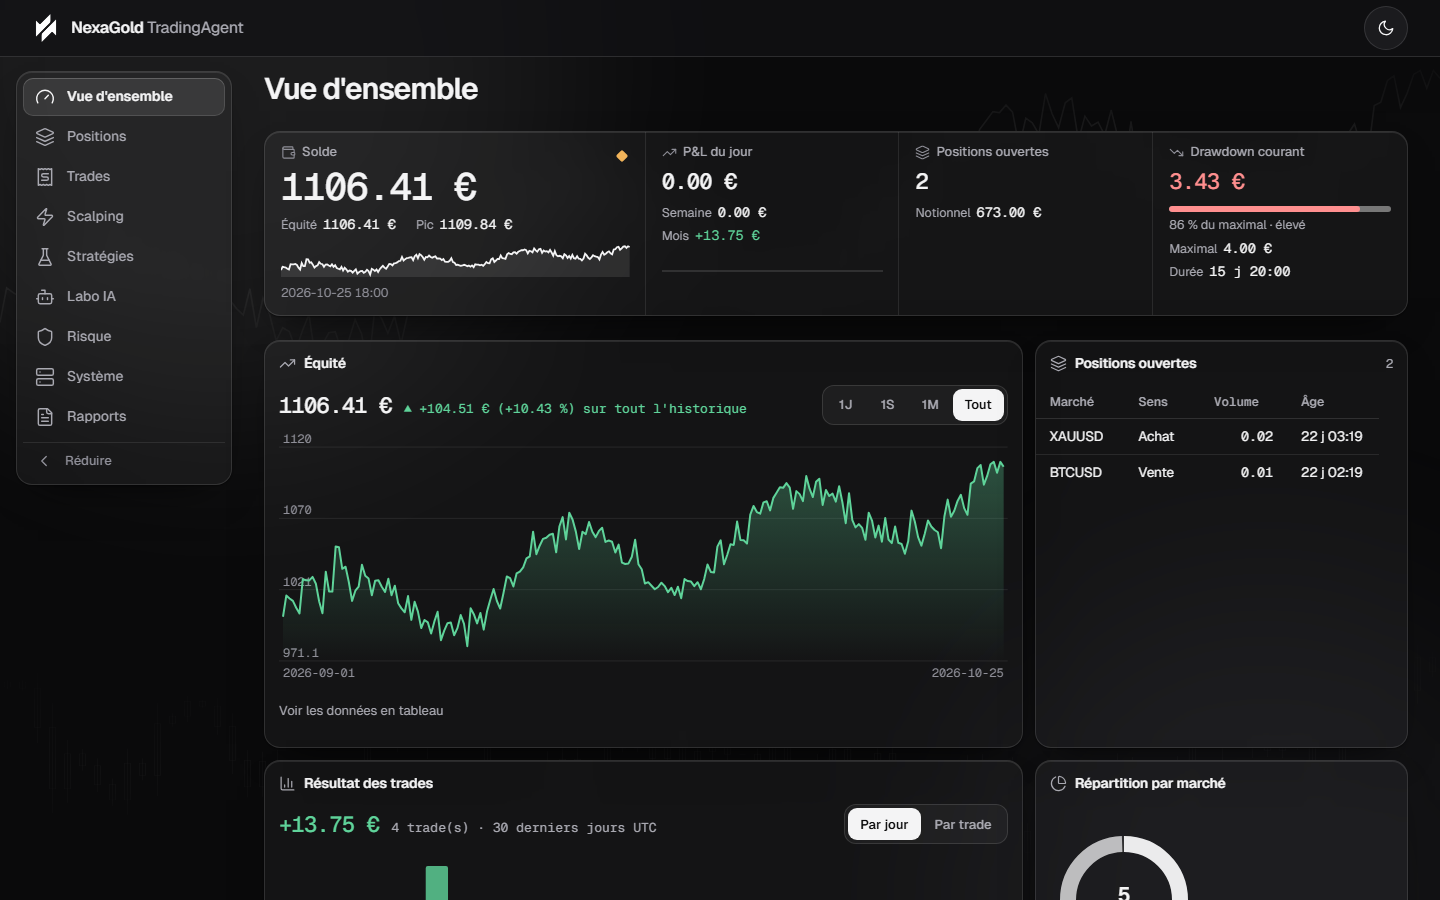
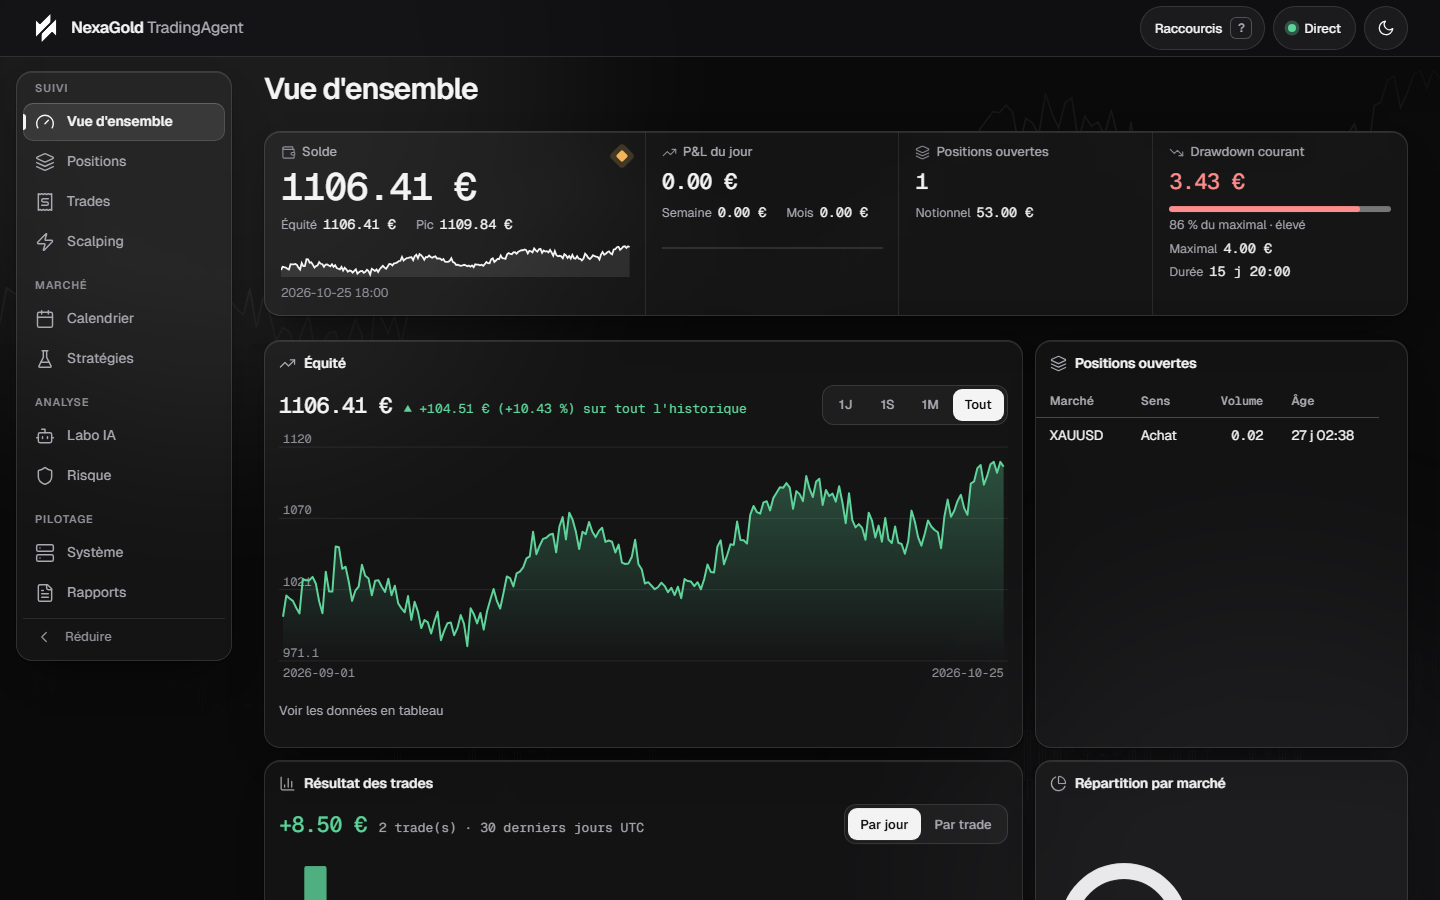
chore: gold-only site images, record BTC history purge
Regenerate site/dashboard.png, docs/assets/dashboard.png and site/og-image.png
without BTCUSD (tagline and positions table). Record the BTC history purge of
the paper database in docs/v3/STATUS.md.

diff --git a/docs/v3/STATUS.md b/docs/v3/STATUS.md
@@ -137,6 +137,14 @@ signature de conformité.
    Windows est reporté (point 2).
 6. **Fait mais à confirmer par un tiers** : restauration sur machine vierge, validation de la
    documentation d'exploitation.
+7. ~~Historique BTCUSD en base~~ — purgé le 2026-11-03 sur décision de l'opérateur (or seul).
+   Supprimés : 8 026 bougies, 64 signaux (et leurs décisions de risque, événements et appels IA),
+   19 ordres, 16 positions, 16 trades, 16 exécutions, 108 événements système, 9 rapports,
+   11 lignes de performance, 1 backtest, 4 entrées du registre. Les verdicts BTCUSD ont été
+   retirés des analyses et synthèses de news. Les déclencheurs d'immuabilité ont été désactivés
+   le temps de la transaction puis réactivés (7 sur 7 vérifiés) ; `audit_log` n'a pas été
+   touché. Sauvegarde préalable des lignes supprimées : `backups/btc-history-*.json`
+   (ignoré par git).
 
 État vérifié le 2026-10-07 par `uv run tradingagent doctor` : base joignable, schéma **à jour
 (0006)**, répertoire des EA présent, toutes les clés obligatoires renseignées. Aucune de ces
